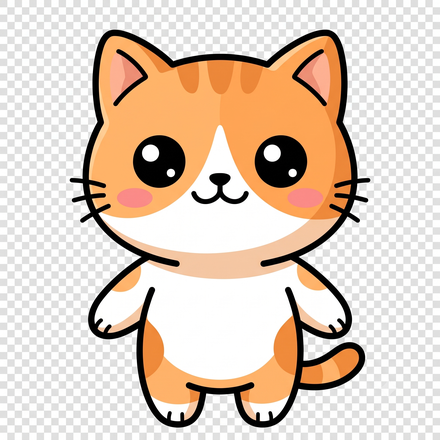
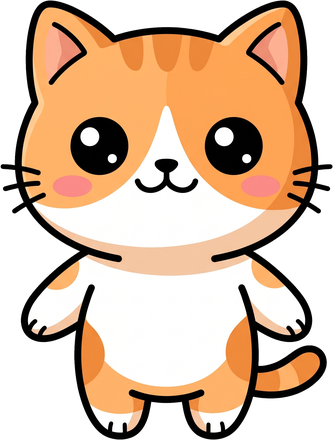
fix: 貓咪圖片其實沒有真透明背景，且走路動畫改用純平移
- 三張 Gemini 生成的貓咪 PNG，alpha channel 其實整張都是 255（完全不透明），
  「透明背景」的棋盤格其實是畫進圖片本身的實際像素，不是真的透明——手機上
  看到的走路圖背後那塊灰白棋盤格方塊，就是這個。改用以四邊為起點的
  connected-component flood fill（偵測跟邊界相連的灰階棋盤格區域）去背，
  真正打洞成 alpha=0，再重新裁邊，跟角色本身（有黑色粗描邊圍住）不會互相
  誤判。
- 兩張走路幀彼此姿勢太像（像素差異只有 ~6%），交叉淡出效果看起來像「只有
  一隻腳在動」而不是完整的走路動作，乾脆拿掉交叉淡出，只留一張走路圖，
  動作感全部交給左右平移＋轉身翻面（本來就是主要的移動感來源，腳步幀只是
  錦上添花，拿掉不影響整體效果）。
- 森林小舞台加上純 CSS 畫的樹叢＋草地＋小招牌背景，不用再等額外的美術素材。

diff --git a/index.html b/index.html
@@ -158,13 +158,26 @@ body {
   box-shadow: var(--shadow-sm); overflow: hidden;
 }
 .pet-roam {
-  position: relative; height: 84px; overflow: hidden; border-bottom: var(--border);
-  background: linear-gradient(180deg,#eaf7ea,#dff3df);
+  position: relative; height: 96px; overflow: hidden; border-bottom: var(--border);
+  background: linear-gradient(180deg, #bfe6ff 0%, #bfe6ff 34%, #8fd6a0 34%, #63c07f 100%);
 }
-.pet-walk-wrap { position: absolute; bottom: 6px; width: 60px; height: 60px; animation: petWalk 10s linear infinite; }
+/* 森林餐廳背景：純 CSS 畫的樹叢＋草地＋小招牌，不用額外的圖片素材 */
+.pet-roam-tree {
+  position: absolute; bottom: 12px; border-radius: 50% 50% 45% 45%;
+  background: #4fa860; box-shadow: inset -5px -5px 0 rgba(0,0,0,0.08);
+}
+.pet-roam-tree::after {
+  content: ''; position: absolute; left: 50%; top: 100%; width: 6px; height: 10px;
+  background: #8a5a3b; transform: translateX(-50%);
+}
+.pet-roam-tree.t1 { left: 4%;  width: 40px; height: 34px; }
+.pet-roam-tree.t2 { left: 16%; width: 26px; height: 22px; }
+.pet-roam-tree.t3 { right: 5%; width: 36px; height: 30px; }
+.pet-roam-sign {
+  position: absolute; right: 18%; bottom: 14px; font-size: 20px; filter: drop-shadow(0 1px 0 rgba(0,0,0,0.15));
+}
+.pet-walk-wrap { position: absolute; bottom: 6px; width: 60px; height: 60px; animation: petWalk 10s linear infinite; z-index: 2; }
 .pet-walk-sprite { position: absolute; inset: 0; width: 100%; height: 100%; object-fit: contain; }
-.pet-walk-sprite.frame-a { animation: petFrameA 0.6s steps(1) infinite; }
-.pet-walk-sprite.frame-b { animation: petFrameB 0.6s steps(1) infinite; }
 @keyframes petWalk {
   0%   { left: 0;                    transform: scaleX(1); }
   48%  { left: calc(100% - 60px);    transform: scaleX(1); }
@@ -172,8 +185,6 @@ body {
   98%  { left: 0;                    transform: scaleX(-1); }
   100% { left: 0;                    transform: scaleX(1); }
 }
-@keyframes petFrameA { 0%,49% { opacity:1; } 50%,100% { opacity:0; } }
-@keyframes petFrameB { 0%,49% { opacity:0; } 50%,100% { opacity:1; } }
 .pet-stage { position: relative; padding: 18px 0 8px; text-align: center; cursor: pointer; }
 .pet-portrait { width: 100%; max-width: 200px; display: block; margin: 0 auto; }
 .pet-portrait.bounce { animation: petBounce 0.4s ease; }
@@ -2061,9 +2072,12 @@ function renderForestPet(data) {
     el.innerHTML = `
       <div class="pet-card">
         <div class="pet-roam">
+          <div class="pet-roam-tree t1"></div>
+          <div class="pet-roam-tree t2"></div>
+          <div class="pet-roam-tree t3"></div>
+          <div class="pet-roam-sign">🍽</div>
           <div class="pet-walk-wrap">
-            <img class="pet-walk-sprite frame-a" src="img/pet/cat_walk_a.png" alt="">
-            <img class="pet-walk-sprite frame-b" src="img/pet/cat_walk_b.png" alt="">
+            <img class="pet-walk-sprite" src="img/pet/cat_walk_a.png" alt="貓咪散步中">
           </div>
         </div>
         <div class="pet-stage" id="pet-stage" onclick="petTouch()">
